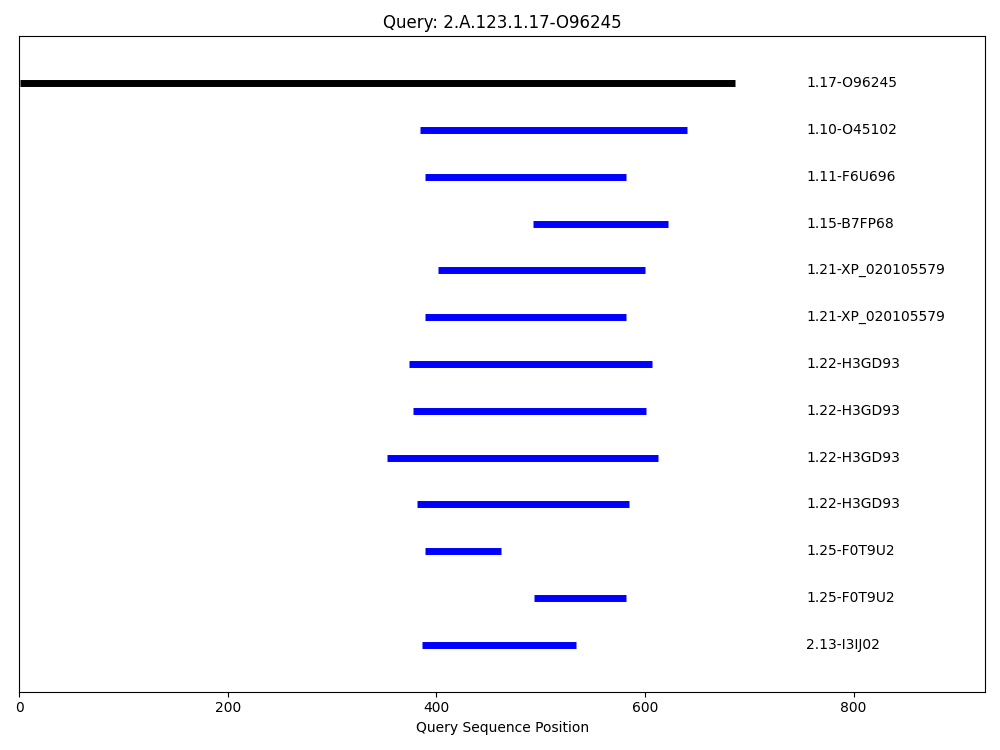
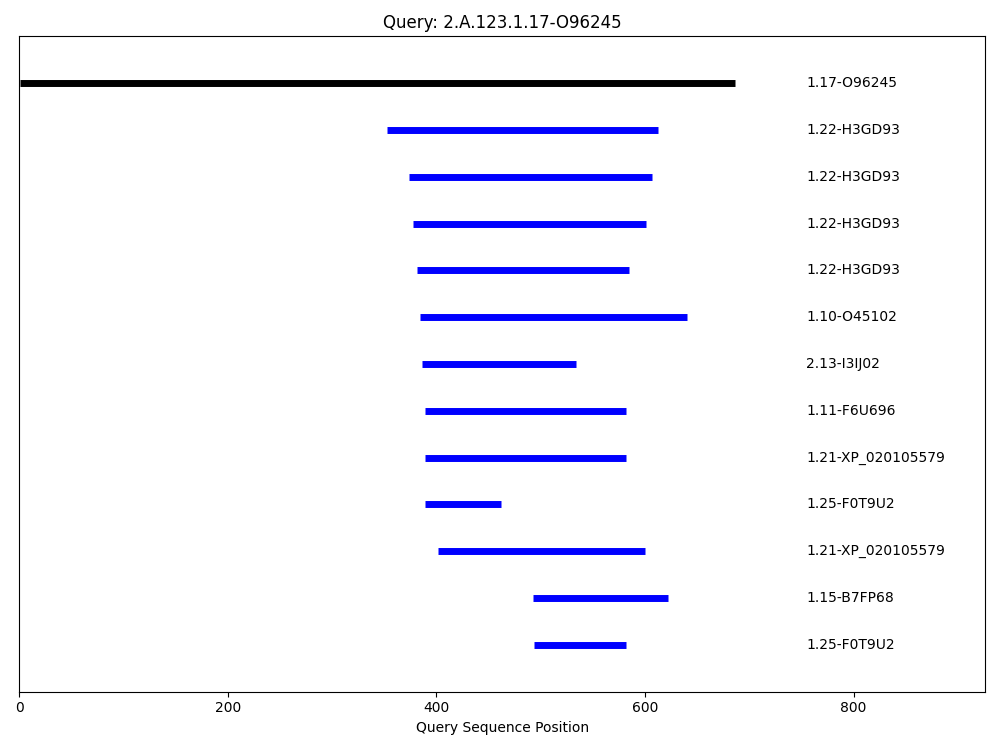
sort by left pos

diff --git a/first_task_graph.py b/first_task_graph.py
@@ -22,7 +22,8 @@ reversed_df["Subject End"] = df["Right Pos"]
 
 df_all = pd.concat([df, reversed_df], ignore_index=True)
 df_all = df_all.drop_duplicates()
-df_all = df_all.sort_values(by=["Query ID", "Subject ID"])
+df_all = df_all.sort_values(by=["Query ID", "Left Pos"])
+df_all.to_csv("first_task_output_with_reversed.tsv", sep="\t", index=False)
 
 out_dir = "query_alignment_graphs"
 os.makedirs(out_dir, exist_ok=True)
